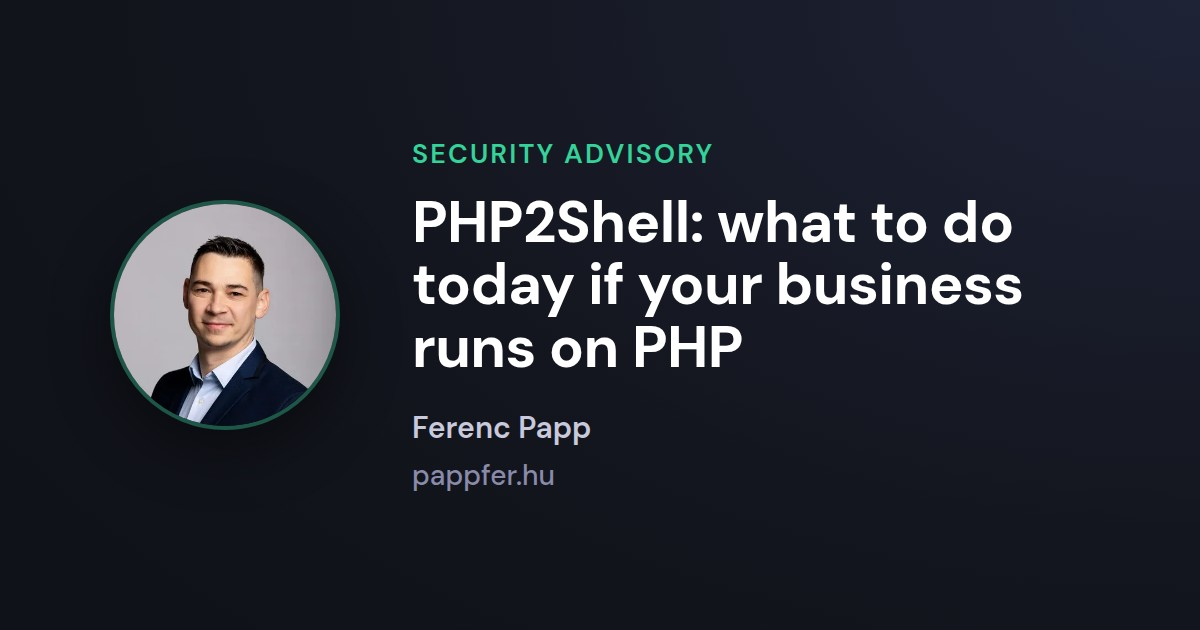
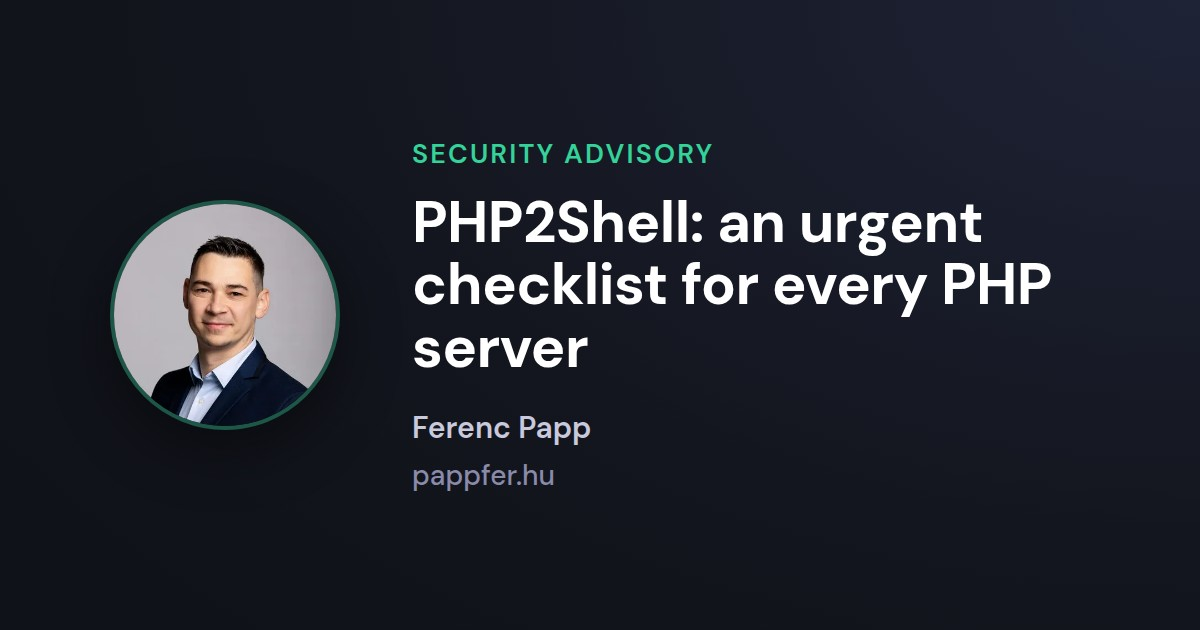
Tighten the PHP2Shell article and source every claim
Check both CVEs in the changelog, add a post-patch compromise check,
cover the Sury / ondrej/php and Ubuntu ESM backports for older branches
(with the release-day PPA lag), and make clear those backports fix these
two CVEs only. Replace the weaker sources with the PHP advisory, ENISA,
Ubuntu, Cloudflare, Sansec and the deb.sury.org tracker; regenerate the
share cards for the new titles.

Changed region(s): [[0.3392, 0.3016, 0.8942, 0.6032]]

diff --git a/src/blog/php2shell.hu.md b/src/blog/php2shell.hu.md
@@ -3,13 +3,13 @@ slug: php2shell
 date: 2026-10-21
 kicker: Biztonsági figyelmeztetés
 keywords: PHP, PHP2Shell, CVE-2026-109618, CVE-2026-109619, PHP-FPM, Laravel, WordPress, távoli kódfuttatás
-title: PHP2Shell: mit tegyél ma, ha a weboldalad PHP-n fut
-metaTitle: PHP2Shell (CVE-2026-109618/109619): teendők most | Papp Ferenc
-description: Két kritikus, bejelentkezés nélkül kihasználható PHP-hibát javítottak 2026. október 21-én. Így nézheted meg, érintett vagy-e, és így frissíts biztonságosan.
+title: PHP2Shell: azonnali teendők minden PHP-szerveren
+metaTitle: PHP2Shell: így ellenőrizd és javítsd a PHP-szervert | Papp Ferenc
+description: Két kritikus PHP-hibát javítottak 2026. október 21-én. Ellenőrzés, biztonságos frissítés, behatolásvizsgálat és javítások régi PHP-verziókhoz.
 ---
-Október 21-én a PHP fejlesztői javítást adtak ki két kritikus sebezhetőségre, a CVE-2026-109618-ra és a CVE-2026-109619-re. A biztonsági szakma **PHP2Shell** néven emlegeti őket. Mindkettővel bejelentkezés nélkül lehet kódot futtatni a szervereden, és mindkettő 9,2 pontot kapott a tízes skálán. Legalább egy beállításnál a támadás még azelőtt lefut, hogy az alkalmazásod egyetlen sora elindulna. Vagyis ez ellen semmilyen keretrendszer, bővítmény vagy alkalmazásszintű tűzfal nem véd.
+Október 21-én a PHP fejlesztői soron kívüli javítást adtak ki két kritikus sebezhetőségre, a CVE-2026-109618-ra és a CVE-2026-109619-re. A két hibát összefoglalóan **PHP2Shell** néven emlegetik. Mindkettő lehetővé teheti, hogy a támadó bejelentkezés nélkül kódot futtasson a szerveren; a CVSS 4.0 szerinti értékelésük 9,2. A mod_php-hoz bemutatott támadás még az alkalmazáskód indulása előtt lefut, ezért egy WordPress-, Laravel- vagy bővítményfrissítés önmagában nem oldja meg a problémát. Magát a PHP-t kell javítani.
 
-Hogy mennyire komoly, azt a nagyok reakciója mutatja. A Wikimedia Alapítvány a javításig lekapcsolta egyes rendszereit. A BBC több műsoroldala elsötétült. Egy időre leállt a Pinboard, a 4chan és több európai kormányzati oldal is. A biztonsági cégek már kihasználási kísérleteket látnak.
+Ez nem az a hiba, amely ráér a következő karbantartási ablakig. A részletek már a hivatalos kiadás előtt kiszivárogtak, nyilvános exploitkód kering, a Cloudflare támadási forgalmat észlelt, az európai kiberbiztonsági szervezetek pedig a javítások telepítésére szólítanak fel, az internet felől elérhető rendszerekkel kezdve. A Cloudflare WAF-szabályai hasznos plusz védelmet adnak, de a PHP frissítését nem váltják ki.
 
 Ha a céged weboldala vagy webalkalmazása Laravelen, Symfonyn, WordPressen, Drupalon, Magentón vagy bármilyen más PHP-alapú rendszeren fut, ez a mai teendőlistád.
 
@@ -17,11 +17,12 @@ Ha a céged weboldala vagy webalkalmazása Laravelen, Symfonyn, WordPressen, Dru
 
 1. Frissítsd a PHP-t **8.5.12, 8.4.27, 8.3.36 vagy 8.2.35** verzióra, vagy a Linux-disztribúciód javított csomagjára.
 2. **Indítsd újra** a PHP-FPM-et vagy az Apache-ot, hogy tényleg a javított verzió szolgálja ki a kéréseket.
-3. PHP 8.1-en vagy régebbin vagy? Olvasd el az utolsó részt, mert neked nagyobb a gondod.
+3. Nézd át a naplókat és a futó folyamatokat is: a frissítés nem tesz semmissé egy korábbi betörést.
+4. PHP 8.1-en vagy régebbin vagy? Olvasd el az utolsó részt, mert neked nagyobb a gondod.
 
 ## Érintett vagy?
 
-Szinte biztosan, ha a weboldaladat PHP szolgálja ki. A figyelmeztetés kiterjed a PHP-FPM-re, az Apache mod_php-ra, a php-cgi-re, a FrankenPHP-ra és a LiteSpeedre. A PHP csapata a **mod_php**-nál tartja a legnagyobbnak a kockázatot: ott egyetlen, bejelentkezés nélküli kérés elég a működő támadáshoz.
+Ha sérülékeny PHP-verzió szolgálja ki a webes kéréseket, kezeld érintettként a rendszert addig, amíg a pontos csomagot és konfigurációt nem ellenőrizted. A figyelmeztetés kiterjed a PHP-FPM-re, az Apache mod_php-ra, a php-cgi-re, a FrankenPHP-ra és a LiteSpeedre. A PHP csapata a **mod_php**-nál tartja a legnagyobbnak a kockázatot: a bemutatott támadáshoz ott egyetlen, bejelentkezés nélküli kérés is elég.
 
 Ellenőrzéskor két dolgon szoktak elcsúszni:
 
@@ -36,13 +37,13 @@ php-fpm8.3 -v                      # a saját verzióddal
 
 ```bash
 # Debian / Ubuntu
-apt changelog php8.3-fpm | grep -m1 CVE-2026-109618
+apt changelog php8.3-fpm | grep -E 'CVE-2026-10961(8|9)'
 
 # RHEL / Alma / Rocky
-rpm -q --changelog php-fpm | grep -m1 CVE-2026-109618
+rpm -q --changelog php-fpm | grep -E 'CVE-2026-10961(8|9)'
 ```
 
-Ha kapsz egy sort, megvan a javítás. Ha nincs kimenet, még nem frissítettél.
+Mindkét CVE-hez kell megerősítés. A changelog átnézése jó első ellenőrzés, de nem mindenhol döntő bizonyíték: a tárolók eltérően vezetik a változásnaplót, néhol pedig a CVE-azonosító sem kerül bele. Ha bármelyik hiányzik, vesd össze a telepített csomag pontos verzióját a disztribúció biztonsági közleményével. Az Ubuntu például minden támogatott kiadáshoz külön megadja a már javított csomagverziót.
 
 ## Hogyan frissíts?
 
@@ -67,6 +68,12 @@ Utána telepítsd újra. Ha digest alapján rögzíted az alap image-et, előbb 
 
 **Serverless és PaaS.** Válts a szolgáltatód javított futtatókörnyezetére, amint elérhető, és telepítsd újra az alkalmazást.
 
+## Frissítés után keress behatolásra utaló nyomokat
+
+A frissítés bezárja a hibát, de nem mondja meg, hogy valaki megelőzött-e. Nézd át legalább a nyilvános bejelentést megelőző óráktól kezdve a webszerver, a PHP, a hitelesítési rendszer és a végpontvédelem naplóit. Gyanús lehet a PHP vagy a webszerver által indított szokatlan folyamat, egy ismeretlen fájl, felhasználó vagy időzített feladat, illetve olyan kimenő kapcsolat, amelyet az alkalmazás normálisan nem kezdeményez.
+
+Ha találsz valamit, előbb őrizd meg a naplókat és válaszd le a gépet a hálózatról. A weboldal fájljainak visszamásolása nem elég, ha a támadó megszerezte a PHP worker jogosultságait vagy hozzáfért az alkalmazás titkaihoz. A jelszavakat és API-kulcsokat tiszta gépről cseréld le; ha lehet, a szervert megbízható image-ből építsd újra.
+
 ## Ha ma nem tudsz frissíteni
 
 A PHP csapata ideiglenes védekezést is javasol, ha néhány óra vagy nap kell a frissítésig. Ezek egyes támadási útvonalakat zárnak le, de **nem tesznek biztonságossá**. Tekintsd őket átmeneti megoldásnak a frissítésig, ne helyette.
@@ -87,15 +94,19 @@ FPM-poolban így add meg az egyes beállításokat: `php_admin_value[session.upl
 
 Korlátozd a kérések méretét a webszerveren vagy a proxyn is (Nginxben például `client_max_body_size 8m;`). Javítsd ki azokat a végzetes hibákat és időtúllépéseket is, amelyeket kívülről ki lehet váltani: a feltöltés- és importkezelőkben vagy a callbackekben.
 
-## Még PHP 7.4-en, 8.0-n vagy 8.1-en vagy?
+## Régi PHP-verziót használsz?
 
-Ez a kellemetlen rész. Ezek a verziók már nem kapnak hivatalos frissítést. A hiba súlyossága miatt a PHP biztonsági csapata most kivételesen kiadott minimális forráskód-szintű javításokat a 7.4–8.1 verziókhoz, de ezek csak annak segítenek, aki maga fordítja a PHP-t.
+A PHP projekt a 7.4, 8.0 és 8.1 ágakat már nem támogatja, de ennél a hibánál kivételt tett: mindháromhoz kiadott minimális forráskód-visszaportolást. Erre építve a külső csomagkarbantartók is tudtak javított binárisokat készíteni.
+
+Ha Debianon a [Deb.Sury.org](https://deb.sury.org/) csomagjait, Ubuntun pedig az `ondrej/php` PPA-t használod, Ondřej Surý a javítást a régi PHP-ágak csomagjaiba is visszaportolta. Vagyis itt nem kell saját PHP-t fordítanod: frissíts a tárolóból, indítsd újra az összes érintett FPM-poolt vagy Apache-ot, majd ellenőrizd a **telepített csomag** verzióját és változásnaplóját. Attól, hogy a tárolóban már megjelent a javítás, a szervered még nem frissül automatikusan. A tükrök is késhetnek: a kiadás napján a Launchpad PPA néhány ágnál még javítatlan csomagot adott. Az `apt-cache policy php8.3-fpm` paranccsal (a saját verzióddal) nézd meg, hogy a telepítésre jelölt verzió már a javított-e.
+
+Ez a két CVE-t kezeli, de nem teszi újra támogatottá a PHP 7.4-et, 8.0-t vagy 8.1-et. Más ismert és később felfedezett hibák javítása továbbra sem garantált, ezért a verzióváltást érdemes külön feladatként betervezni.
 
 A reális lehetőségeid:
 
-- **Kérdezd meg a szolgáltatódat.** Egyes Linux-disztribúciók és hosszú távú támogatást nyújtó cégek kiadnak javított csomagokat. Ellenőrizd a fenti changelog-paranccsal.
+- **Frissíts a csomagforrásodból.** Az Ubuntu (20.04-en és régebbin az Ubuntu Pro kiterjesztett biztonsági támogatásával), a Deb.Sury/`ondrej/php` és egyes LTS-szolgáltatók már régi PHP-ágakhoz is adnak javított csomagokat. Ellenőrizd a fenti changelog-paranccsal és a szolgáltató közleményével is.
 - **Állítsd be ma az ideiglenes védekezést**, de csak átmeneti megoldásnak tekintsd.
-- **Frissíts PHP 8.3-ra vagy 8.4-re.** Egy átlagos Laravel- vagy egyedi PHP-alkalmazásnál ez jellemzően néhány nap vagy pár hét munka, nem hónapoké. Ritkán maga a PHP a nehéz rész. Inkább az évek óta nem frissített függőségek.
+- **Válts jelenleg támogatott PHP-ágra.** Hogy ez mennyi idő, az alkalmazástól és a függőségeitől függ. Egy karbantartott Laravel-projekt gyorsan mozdulhat; egy régi egyedi rendszert előbb fel kell mérni és tesztelni, csak utána lehet felelősen becsülni.
 
 Ha eddig halogattad ezt a frissítést, ez a hét megmutatta, hogy a halogatásnak ára van.
 
@@ -117,9 +128,13 @@ Papp Ferenc vagyok, debreceni szabadúszó full-stack fejlesztő. Több mint 15 
 
 **Források**
 
-- [php.net: biztonsági figyelmeztetés és letöltések](https://www.php.net/)
+- [php.net: hivatalos biztonsági közlemény](https://www.php.net/archive/2026.php#2026-10-21-5)
+- [ENISA: közös közlemény a kritikus PHP-hibákról](https://www.enisa.europa.eu/news/joint-statement-on-critical-php-vulnerabilities)
+- [Ubuntu: javított csomagverziók és frissítési útmutató](https://ubuntu.com/blog/php2shell-vulnerability-fixes-available)
+- [Cloudflare: WAF-védelem és észlelt támadási forgalom](https://blog.cloudflare.com/php-vulnerabilities-waf-protection/)
+- [Sansec: PHP2Shell-elemzés és nyilvános exploit](https://sansec.io/research/php2shell)
+- [deb.sury.org: egyeztetés a backportokról a kiadás napján](https://codeberg.org/oerdnj/deb.sury.org/issues/145)
 - [Tenable: PHP2Shell GYIK](https://www.tenable.com/blog/php2shell-cve-2026-109618-cve-2026-109619-frequently-asked-questions-about-critical-php-remote)
 - [watchTowr: kihasználási kísérletek](https://watchtowr.com/intelligence/php-remote-code-execution-php2shell/)
 - [Huntress: gyorsreagálású elemzés](https://www.huntress.com/blog/php2shell-leaked-critical-php-vulnerabilities)
 - [Computer Weekly: kritikus PHP-hibák weboldalak millióit veszélyeztetik](https://www.computerweekly.com/news/366652446/Critical-PHP-flaws-puts-millions-of-websites-at-risk-of-takeover)
-- [How-To Geek: lekapcsolt oldalak](https://www.howtogeek.com/your-favorite-websites-are-down-due-to-an-internet-breaking-security-failure/)

diff --git a/src/blog/php2shell.en.md b/src/blog/php2shell.en.md
@@ -3,13 +3,13 @@ slug: php2shell
 date: 2026-10-21
 kicker: Security advisory
 keywords: PHP, PHP2Shell, CVE-2026-109618, CVE-2026-109619, PHP-FPM, Laravel, WordPress, remote code execution
-title: PHP2Shell: what to do today if your business runs on PHP
-metaTitle: PHP2Shell (CVE-2026-109618/109619): what to do today | Ferenc Papp
-description: Two critical, unauthenticated PHP RCEs were patched on 21 October 2026. How to check if you're affected, update safely, and what to do on PHP 8.1 or older.
+title: PHP2Shell: an urgent checklist for every PHP server
+metaTitle: PHP2Shell: how to check and patch your PHP server | Ferenc Papp
+description: Two critical PHP RCEs were patched on 21 October 2026. Check your server, update safely, investigate compromise, and find fixes for older PHP releases.
 ---
-On 21 October the PHP project shipped fixes for two critical vulnerabilities, CVE-2026-109618 and CVE-2026-109619, which the security community has named **PHP2Shell**. Both let an attacker run code on your server without logging in, and both are rated 9.2 out of 10. In at least one setup the attack fires before a single line of your application runs. That means no framework, plugin or application-level firewall rule can catch it.
+On 21 October the PHP project shipped emergency fixes for two critical vulnerabilities, CVE-2026-109618 and CVE-2026-109619, collectively known as **PHP2Shell**. Both can lead to remote code execution without authentication, and both have a CVSS 4.0 score of 9.2. A demonstrated mod_php exploit runs before application code starts, so updating WordPress, Laravel or a plugin does not fix the underlying problem. PHP itself has to be patched.
 
-The reactions show how seriously big operators take this. The Wikimedia Foundation took some of its systems offline until they were patched. Several BBC programme pages went dark. Pinboard, 4chan and a number of European government sites disappeared for a while too. Security firms are already seeing exploitation attempts.
+This is not a theoretical bug that can wait for the next maintenance window. Details leaked before the official release, public proof-of-concept code is circulating, Cloudflare has observed attack traffic, and European cybersecurity authorities have urged organisations to apply the updates, starting with internet-facing systems. Cloudflare's WAF rules add a useful layer of protection, but Cloudflare itself still tells customers to update PHP.
 
 If your business runs on Laravel, Symfony, WordPress, Drupal, Magento or anything else built on PHP, here is the checklist for today.
 
@@ -17,11 +17,12 @@ If your business runs on Laravel, Symfony, WordPress, Drupal, Magento or anythin
 
 1. Update PHP to **8.5.12, 8.4.27, 8.3.36 or 8.2.35**, or to your Linux distribution's patched package.
 2. **Restart** PHP-FPM or Apache, so the patched binary is the one actually serving requests.
-3. On PHP 8.1 or older? Read the last section. You have a bigger problem.
+3. Check logs and running processes for signs of compromise; patching does not undo an earlier intrusion.
+4. On PHP 8.1 or older? Read the last section. You have a bigger problem.
 
 ## Are you affected?
 
-Almost certainly, if PHP serves your web traffic. The advisory covers PHP-FPM, Apache with mod_php, php-cgi, FrankenPHP and LiteSpeed. The PHP team rates the risk highest for **mod_php**, where a working exploit needs nothing more than one unauthenticated request.
+If a vulnerable PHP version serves web traffic, treat it as exposed until you have checked the exact package and configuration. The advisory covers PHP-FPM, Apache with mod_php, php-cgi, FrankenPHP and LiteSpeed. The PHP team rates the risk highest for **mod_php**, where a demonstrated exploit needs only an unauthenticated request.
 
 Two things trip people up when they check:
 
@@ -36,13 +37,13 @@ php-fpm8.3 -v                      # substitute your version
 
 ```bash
 # Debian / Ubuntu
-apt changelog php8.3-fpm | grep -m1 CVE-2026-109618
+apt changelog php8.3-fpm | grep -E 'CVE-2026-10961(8|9)'
 
 # RHEL / Alma / Rocky
-rpm -q --changelog php-fpm | grep -m1 CVE-2026-109618
+rpm -q --changelog php-fpm | grep -E 'CVE-2026-10961(8|9)'
 ```
 
-If you get a line back, you have the fix. No output means you're not patched yet.
+You need confirmation for **both** CVEs. A changelog search is a useful first check, not universal proof: repositories format changelogs differently and some omit CVE identifiers. If either CVE is missing, compare the installed package version with your vendor's security notice. On Ubuntu, for example, Canonical publishes the exact fixed package version for every supported release.
 
 ## How to update
 
@@ -67,6 +68,12 @@ Then redeploy. If you pin base images by digest, bump the digest first.
 
 **Serverless and PaaS.** Move to your provider's patched runtime as soon as it's published, then redeploy.
 
+## After patching, check for compromise
+
+An update closes the vulnerability; it does not tell you whether somebody reached the server first. Review web-server, PHP, authentication and endpoint logs from at least the hours before the public disclosure. Look for unusual child processes spawned by PHP or the web server, unexpected files and accounts, unfamiliar scheduled jobs and outbound connections that your application does not normally make.
+
+If you find something suspicious, preserve the logs and isolate the host before cleaning it. Restoring only the website files is not enough if an attacker obtained the PHP worker's permissions or stole application secrets. Rotate credentials and API keys from a known-clean machine, and rebuild the server from a trusted image where possible.
+
 ## If you can't update today
 
 The PHP team lists mitigations for teams that need a few hours or days. They narrow specific attack paths. **They do not make you safe.** Treat them as a bridge to the update, not a replacement for it.
@@ -87,15 +94,19 @@ In an FPM pool, write each setting as `php_admin_value[session.upload_progress.e
 
 Also cap request sizes at the web server or proxy (for example `client_max_body_size 8m;` in Nginx), and fix any fatal errors or timeouts an attacker can trigger from outside: upload handlers, importers, callbacks.
 
-## Still on PHP 7.4, 8.0 or 8.1?
+## Running an older PHP release?
 
-This is the uncomfortable part. These versions no longer receive official updates. Because this bug is so severe, the PHP security team published minimal source-code backports for 7.4 through 8.1. Those help only if you compile PHP yourself.
+The PHP project no longer supports the 7.4, 8.0 and 8.1 branches, but it made an exception for these vulnerabilities and published minimal source backports for all three. That also gave third-party package maintainers a basis for patched binary builds.
+
+If you use [Deb.Sury.org](https://deb.sury.org/) on Debian or the `ondrej/php` PPA on Ubuntu, Ondřej Surý has backported the fixes to packages for older PHP branches as well. You do not need to compile PHP yourself in that case: upgrade from the repository, restart every affected FPM pool or Apache instance, then verify the **installed package** version and changelog. A fixed package existing in the repository does not mean it is already installed on your server. Mirrors can lag, too: on release day the Launchpad PPA still served an unfixed build for some branches, so run `apt-cache policy php8.3-fpm` (with your version) and check that the candidate is the fixed one before you rely on it.
+
+This addresses these two CVEs; it does not make PHP 7.4, 8.0 or 8.1 generally supported again. Fixes for other known or future vulnerabilities are not guaranteed, so plan the move to a supported branch separately.
 
 Your realistic options:
 
-- **Check your vendor.** Some Linux distributions and long-term-support vendors ship backported fixes. Use the changelog check above.
+- **Update from your package source.** Ubuntu (on 20.04 and older through Ubuntu Pro's Expanded Security Maintenance), Deb.Sury/`ondrej/php` and some LTS vendors provide patched packages for older PHP branches. Verify them with both the changelog check above and the vendor advisory.
 - **Apply the mitigations today** and treat them as temporary.
-- **Upgrade to PHP 8.3 or 8.4.** For a typical Laravel or custom PHP application, that is usually a matter of days or a few weeks, not months. The hard part is rarely PHP itself. It's the dependencies that haven't been touched in years.
+- **Upgrade to a currently supported PHP branch.** How long that takes depends on the application and its dependencies. A maintained Laravel project may move quickly; an old custom system needs testing before anyone can make an honest estimate.
 
 If you've been postponing that upgrade, this week is the reminder that postponing has a price.
 
@@ -117,9 +128,13 @@ I'm Ferenc Papp, a freelance full-stack developer from Debrecen, Hungary. I've b
 
 **Sources**
 
-- [php.net: security advisory and downloads](https://www.php.net/)
+- [php.net: official security advisory](https://www.php.net/archive/2026.php#2026-10-21-5)
+- [ENISA: joint statement on the critical PHP vulnerabilities](https://www.enisa.europa.eu/news/joint-statement-on-critical-php-vulnerabilities)
+- [Ubuntu: fixed package versions and update instructions](https://ubuntu.com/blog/php2shell-vulnerability-fixes-available)
+- [Cloudflare: WAF protection and observed attack traffic](https://blog.cloudflare.com/php-vulnerabilities-waf-protection/)
+- [Sansec: PHP2Shell analysis and public exploit](https://sansec.io/research/php2shell)
+- [deb.sury.org: release-day discussion of the backports](https://codeberg.org/oerdnj/deb.sury.org/issues/145)
 - [Tenable: PHP2Shell FAQ](https://www.tenable.com/blog/php2shell-cve-2026-109618-cve-2026-109619-frequently-asked-questions-about-critical-php-remote)
 - [watchTowr: exploitation activity](https://watchtowr.com/intelligence/php-remote-code-execution-php2shell/)
 - [Huntress: rapid response](https://www.huntress.com/blog/php2shell-leaked-critical-php-vulnerabilities)
 - [Computer Weekly: critical PHP flaws put millions of websites at risk](https://www.computerweekly.com/news/366652446/Critical-PHP-flaws-puts-millions-of-websites-at-risk-of-takeover)
-- [How-To Geek: sites taken offline](https://www.howtogeek.com/your-favorite-websites-are-down-due-to-an-internet-breaking-security-failure/)
